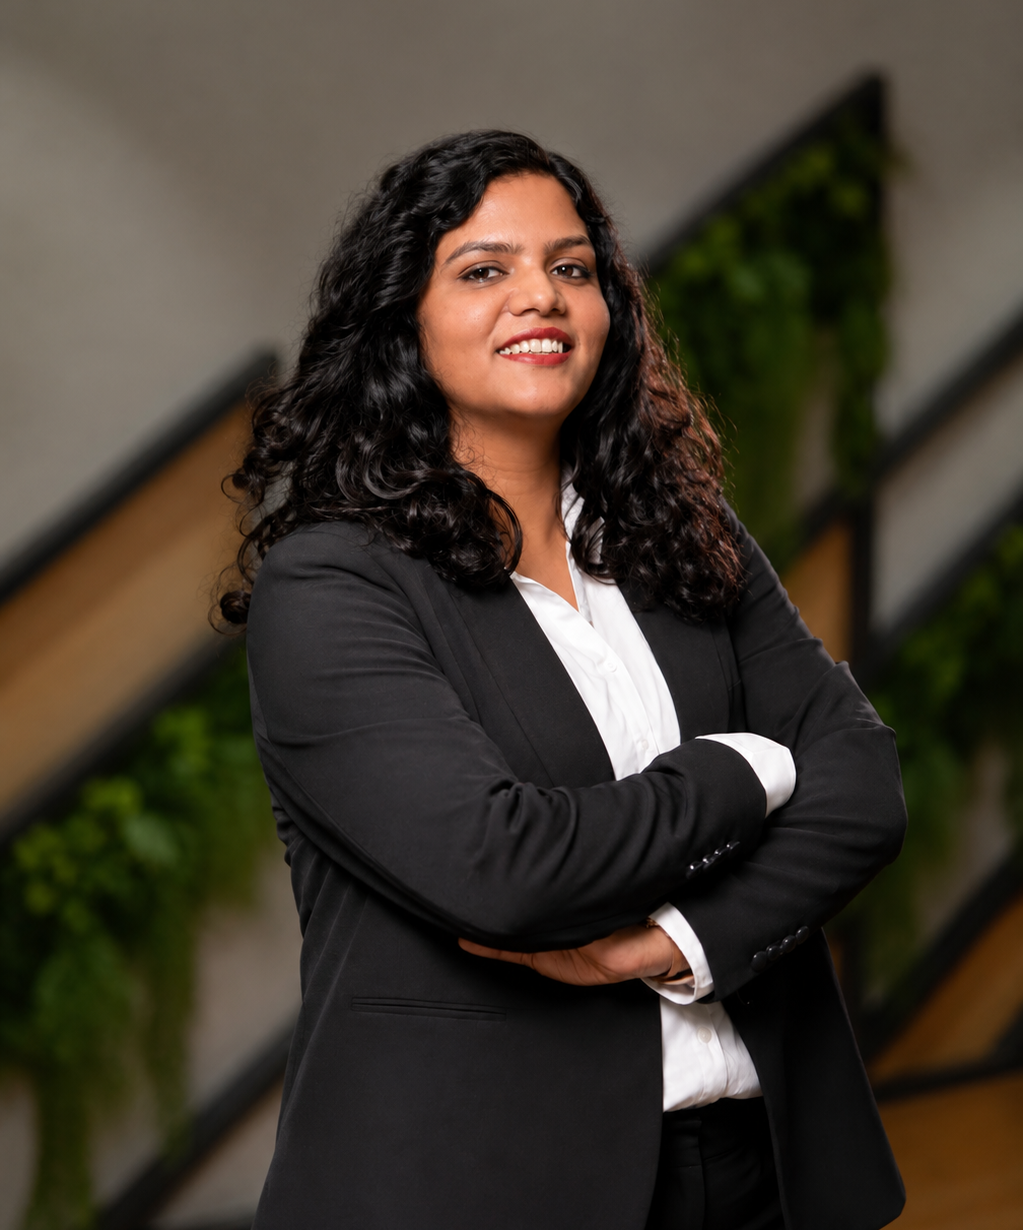
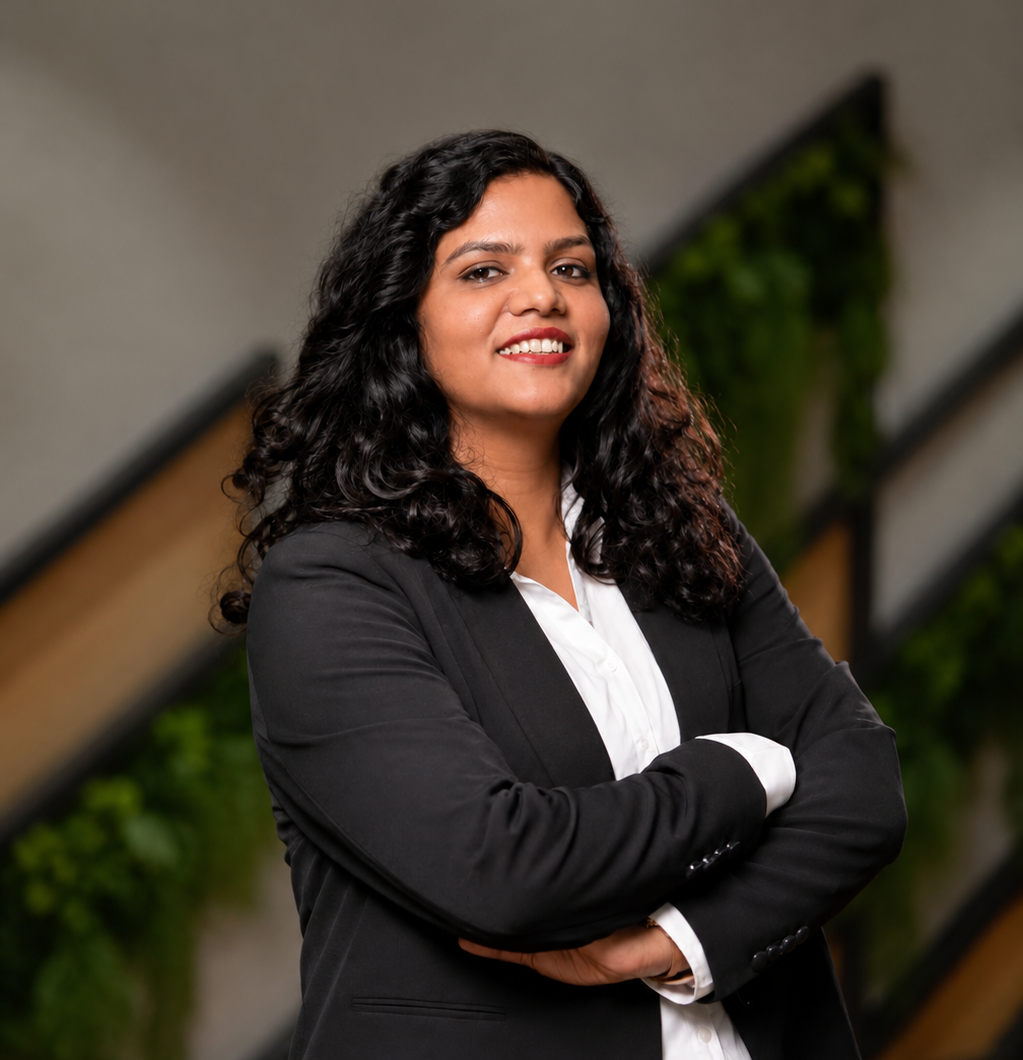
Hero: crop portrait just below the crossed hands
Claude-Session: https://claude.ai/code/session_018jxijH8Jqk5ZYFdauh5WtK

diff --git a/src/components/site/Hero.tsx b/src/components/site/Hero.tsx
@@ -16,19 +16,19 @@ export function Hero() {
     >
       {/* Portrait with its green backdrop, faded into the section colour on every side by a soft mask (no hard edges) */}
       <div
-        className="pointer-events-none absolute inset-y-0 right-0 aspect-[1023/1230] h-full max-w-full lg:max-w-[52vw]"
+        className="pointer-events-none absolute inset-y-0 right-0 aspect-[1023/1060] h-full max-w-full lg:max-w-[52vw]"
         style={{
           maskImage:
-            "radial-gradient(ellipse 62% 58% at 60% 48%, #000 55%, transparent 100%)",
+            "radial-gradient(ellipse 64% 70% at 58% 42%, #000 58%, transparent 100%)",
           WebkitMaskImage:
-            "radial-gradient(ellipse 62% 58% at 60% 48%, #000 55%, transparent 100%)",
+            "radial-gradient(ellipse 64% 70% at 58% 42%, #000 58%, transparent 100%)",
         }}
       >
         <img
           src={heroPortrait}
           alt={`Portrait of ${profile.brand}`}
           width={1023}
-          height={1230}
+          height={1060}
           className="size-full object-cover object-center"
         />
         {/* Light purple tint so the photo sits in the page's colour scheme without hiding the greenery */}
